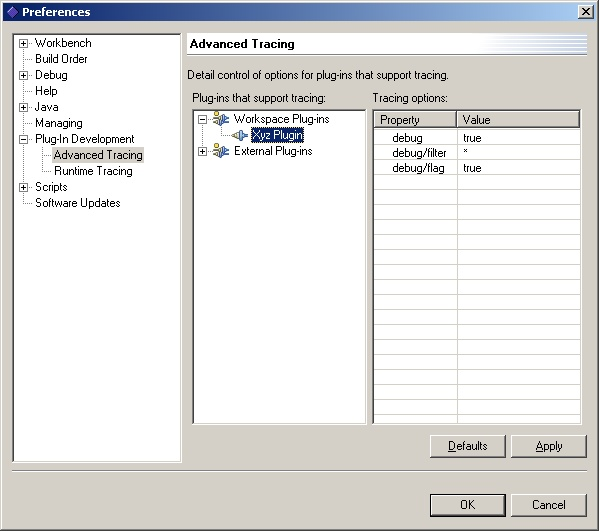
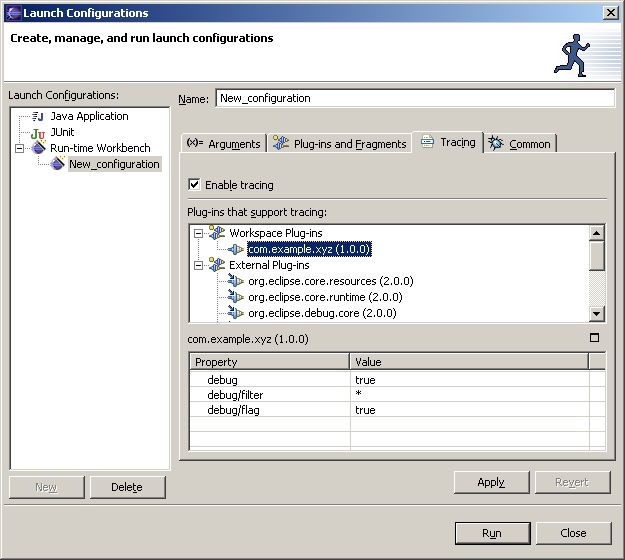
*** empty log message ***

diff --git a/bundles/org.eclipse.pde.doc.user/guide/pde_running_tracing.htm b/bundles/org.eclipse.pde.doc.user/guide/pde_running_tracing.htm
@@ -22,7 +22,7 @@ call the method <b>isDebugging</b> in your plug-in class, it will
 return true if the value of this tracing variable is true. Other tracing flags
 are defined by you and their value can be obtained by using</p>
 <font color='#4444CC'><pre>
-   Platform.getDebugOption(optionName)&quot;;
+   Platform.getDebugOption(optionName);
 </pre></font>
 <p>Most of the platform plug-ins define tracing flags, particularly the platform
 core. For a
@@ -30,23 +30,14 @@ new plug-in developer, the most interesting set of tracing flags are those
 related to class loading, because they can allow tracing of plug-in loading
 problems.&nbsp;</p>
 <p> In order to support tracing without the need to edit the tracing <b>.options</b> files, PDE provides a
-&quot;Runtime Tracing&quot; preference page that allows you to set the tracing flags
-and name filters related to loading.</p>
-<p align="center"><img border="0" src="images/runtime-tracing.jpg" width="599" height="531"></p>
-<p align="left">Runtime class load tracing is treated specially since it is general
-and useful for most plug-in developers. PDE also provides a generic dialog for controlling
-other tracing flags.&nbsp; The Advanced Tracing preference page shows all of the plug-ins that support tracing.&nbsp;
-When a plug-in is selected, its supported tracing options are shown in the property
-sheet. You can change the values of these tracing options for workspace and
-external plug-ins.</p>
+&quot;Runtime Tracing&quot; tab in the launch dialog. All the tracing settings
+are saved in the launch configuration. This means that you can create several
+configurations with different tracing options and alternate between them.</p>
+<p align="center"><img border="0" src="images/launch-tracing.jpg" width="624" height="560"></p>
 <p align="left">If you add tracing support to the plug-in under development,
-these tracing values will show up in this page.</p>
-<p align="center"><img border="0" src="images/advanced-tracing.jpg" width="599" height="531"></p>
-<p> PDE provides a variant of the &quot;Runtime Workbench&quot; launcher
-called &quot;Runtime Workbench With Tracing.&quot; This launcher will create the
-consolidated <b> .options</b> file based on tracing settings from the Preferences and
-pass it to the run-time platform instance. All the tracing output will show up in
-the Console view.</p>
+your plug-ins will appear in the list of plug-ins that support tracing (in the
+Workspace Plug-ins group) and your tracing properties will appear in the
+property sheet.</p>
 <h3>Example:&nbsp; Adding tracing support to your plug-in</h3>
 <p>In order to allow other developers to control your plug-in's tracing flags,
 you need to make these options known.&nbsp; This is typically done by placing a <b>.options</b> file in your plug-in.&nbsp; The file lists all the supported flags as well as their default values.
@@ -62,10 +53,11 @@ the default text editor opens, add the following entries:</p>
    com.example.xyz/debug/flag = true
    com.example.xyz/debug/filter = *
 </pre></font>
-<p>When this file is saved, open the <b>Preferences-&gt;Advanced Tracing </b> page. Our
+<p>When this file is saved, select <b>Run-&gt;Run...</b> to open the launch
+dialog. Our
 plug-in should now show up under &quot;Workspace Plug-ins&quot;. When selected,
 it should show the newly defined flags with their default values.</p>
-<p align="center"><img border="0" src="images/xyz-tracing.jpg" width="599" height="531"></p>
+<p align="center"><img border="0" src="images/xyz-tracing.jpg" width="625" height="560"></p>
 <p>Creating the <b>.options</b> file only defines the availability flags,
 allowing other plug-in developers to define the values of the tracing
 properties.&nbsp; You will still need to check the values of your tracing

diff --git a/bundles/org.eclipse.pde.doc.user/guide/pde_running_debugging.htm b/bundles/org.eclipse.pde.doc.user/guide/pde_running_debugging.htm
@@ -19,6 +19,21 @@ there is no difference between workspace and external plug-ins when
 debugging.&nbsp; You can jump from class to class without knowing whether you are looking at the
 read-only source attached to external libraries or editable source in your
 workspace. For more information about debugging, see the JDT User Guide.</p>
+<p>If your target platform is not the same as the host and the target platform
+is a product that does not contain source code, you will not be able to step
+through source when the control moves into the platform classes. Some
+platform-based products may elect to ship without source and offer source as
+part of the product SDK. In that case, source code will be installed separately
+(usually later). Source code is delivered via plug-ins that contain ZIP files
+and plug into the PDE extension point for registering source code locations.
+When associating run-time libraries and source attachments, PDE will scan the
+available source code locations trying to find the matching source ZIP.</p>
+<p>Alternatively, you can download source code onto your disk drive and register
+the location manually using PDE preference page:</p>
+<p align="center"><img border="0" src="images/source-locations.jpg" width="606" height="532"></p>
+<p align="left">You will notice that some locations already exist if the host
+instance is the SDK itself and contains source plug-ins. You can add new
+locations by selecting <b>Add...</b> and choosing a valid local directory.</p>
 <p CLASS="BodyText"><a href="../hglegal.htm"><img border="0" src="../ngibmcpy.gif" width="195" height="12"></a></p>
 
 </body>

diff --git a/bundles/org.eclipse.pde.doc.user/guide/pde_running_plugins.htm b/bundles/org.eclipse.pde.doc.user/guide/pde_running_plugins.htm
@@ -8,7 +8,7 @@
 
 <BODY BGCOLOR="#ffffff">
 
-<h2>Choosing plug-ins and fragments to run</h2>
+<h2>Choosing plug-ins to run</h2>
 <p>It is possible to alter the list of plug-ins and fragments that PDE will pass
 to the run-time workbench when running or debugging. By default, <b>Plug-ins and
 Fragments</b> tab is configured to select all the workspace plug-ins and
